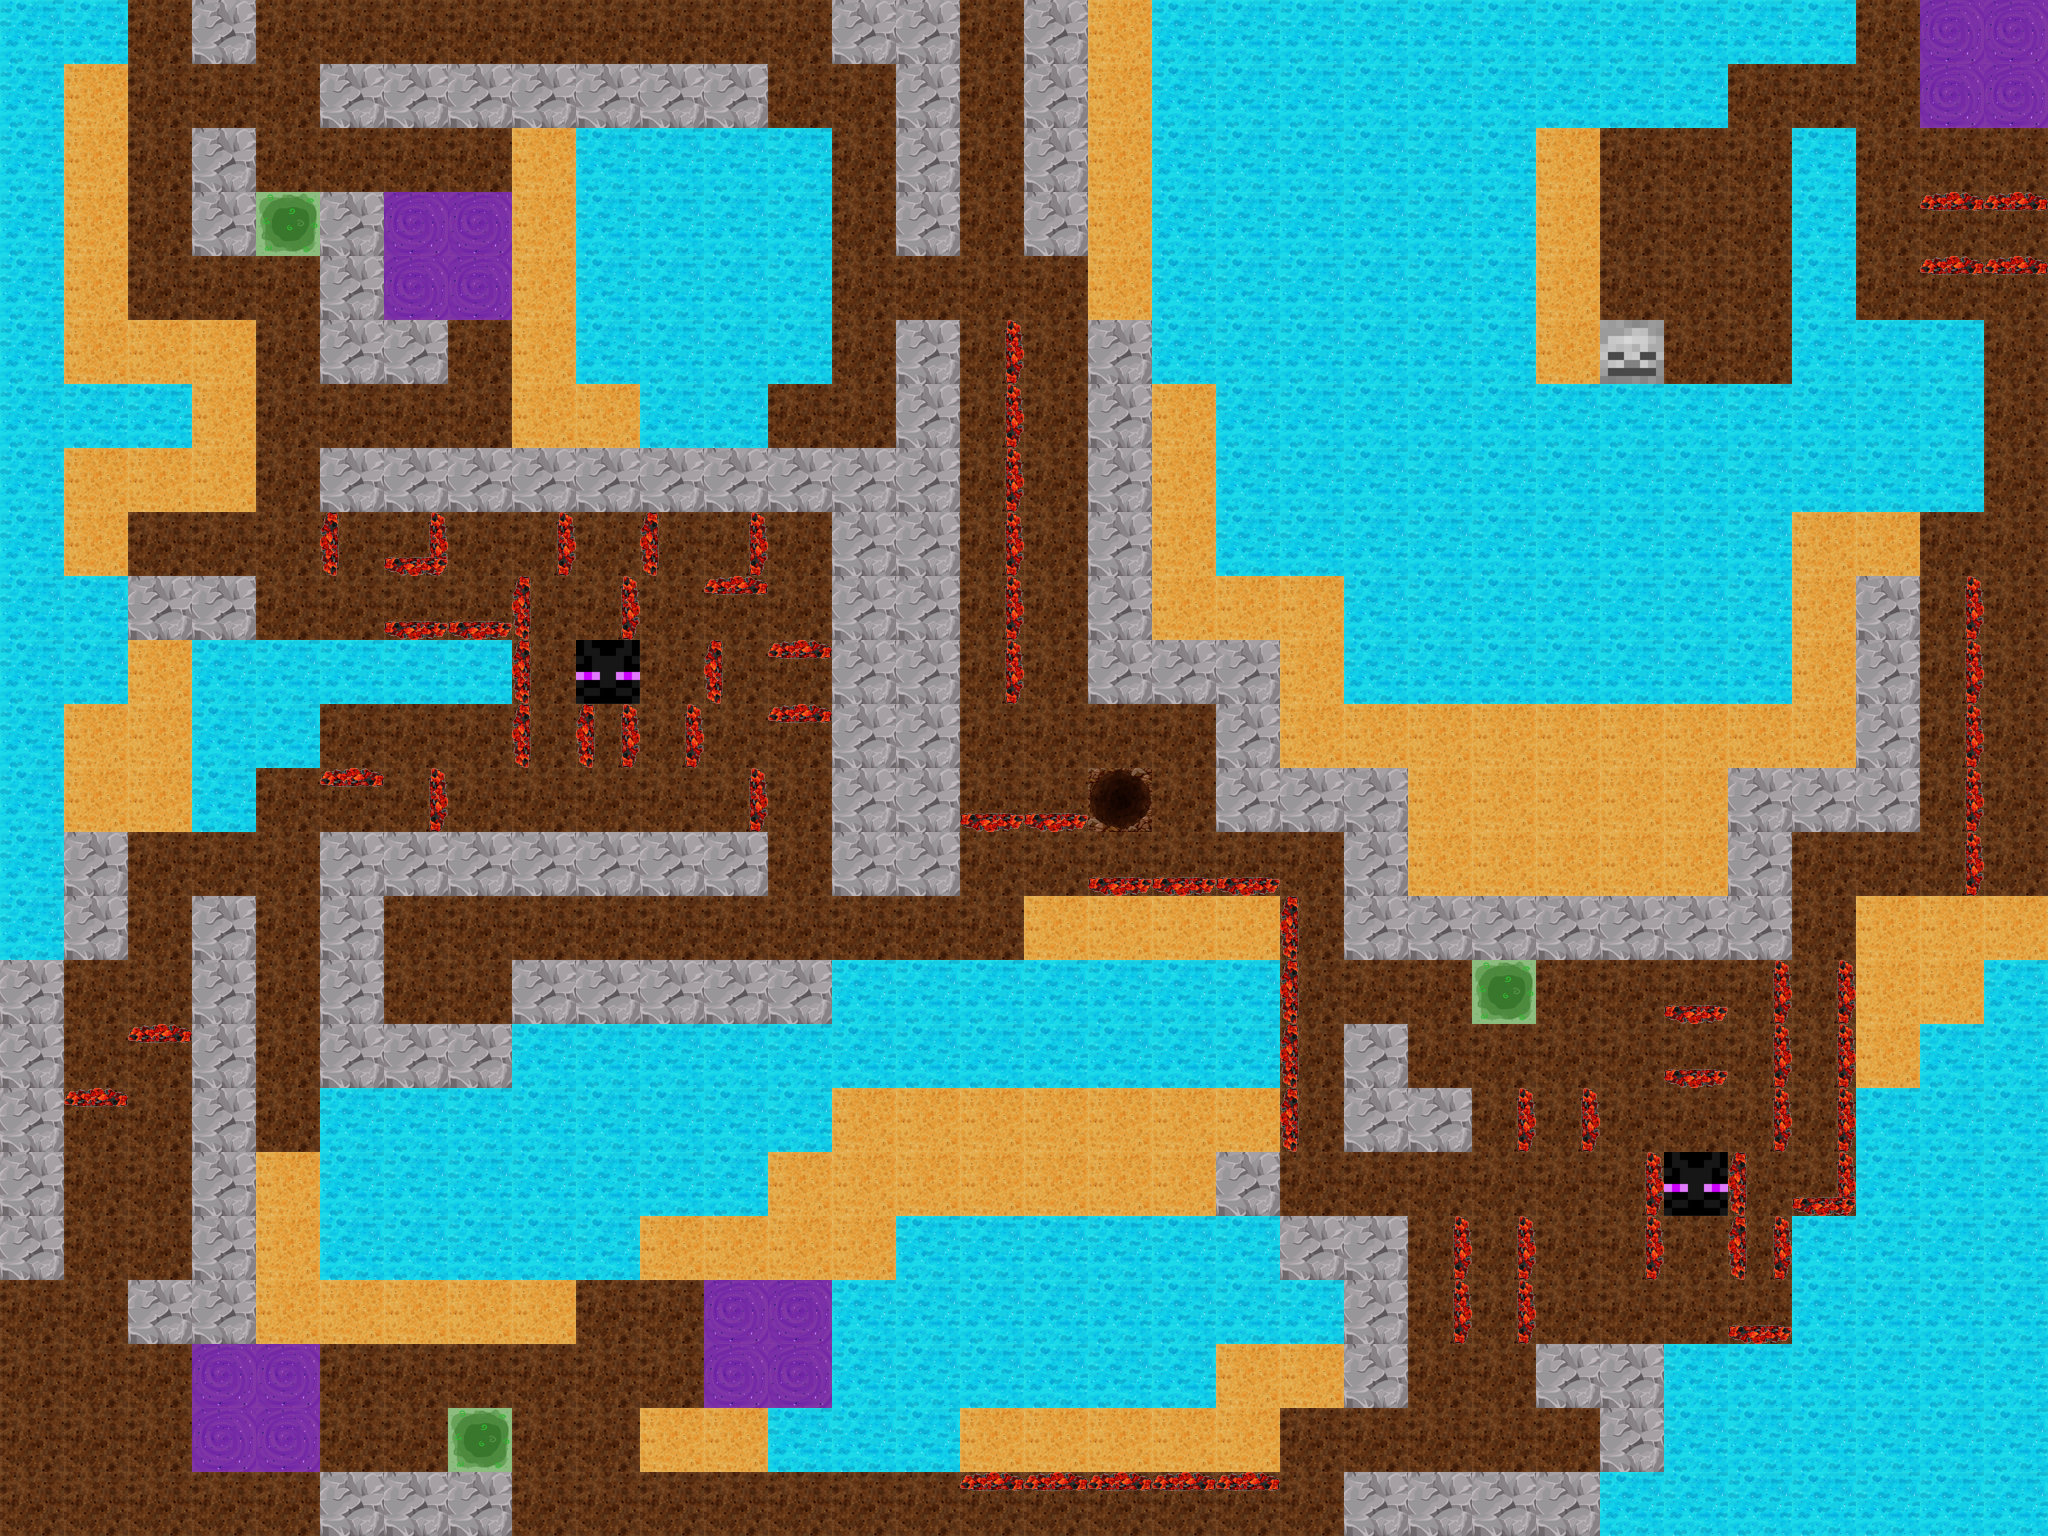
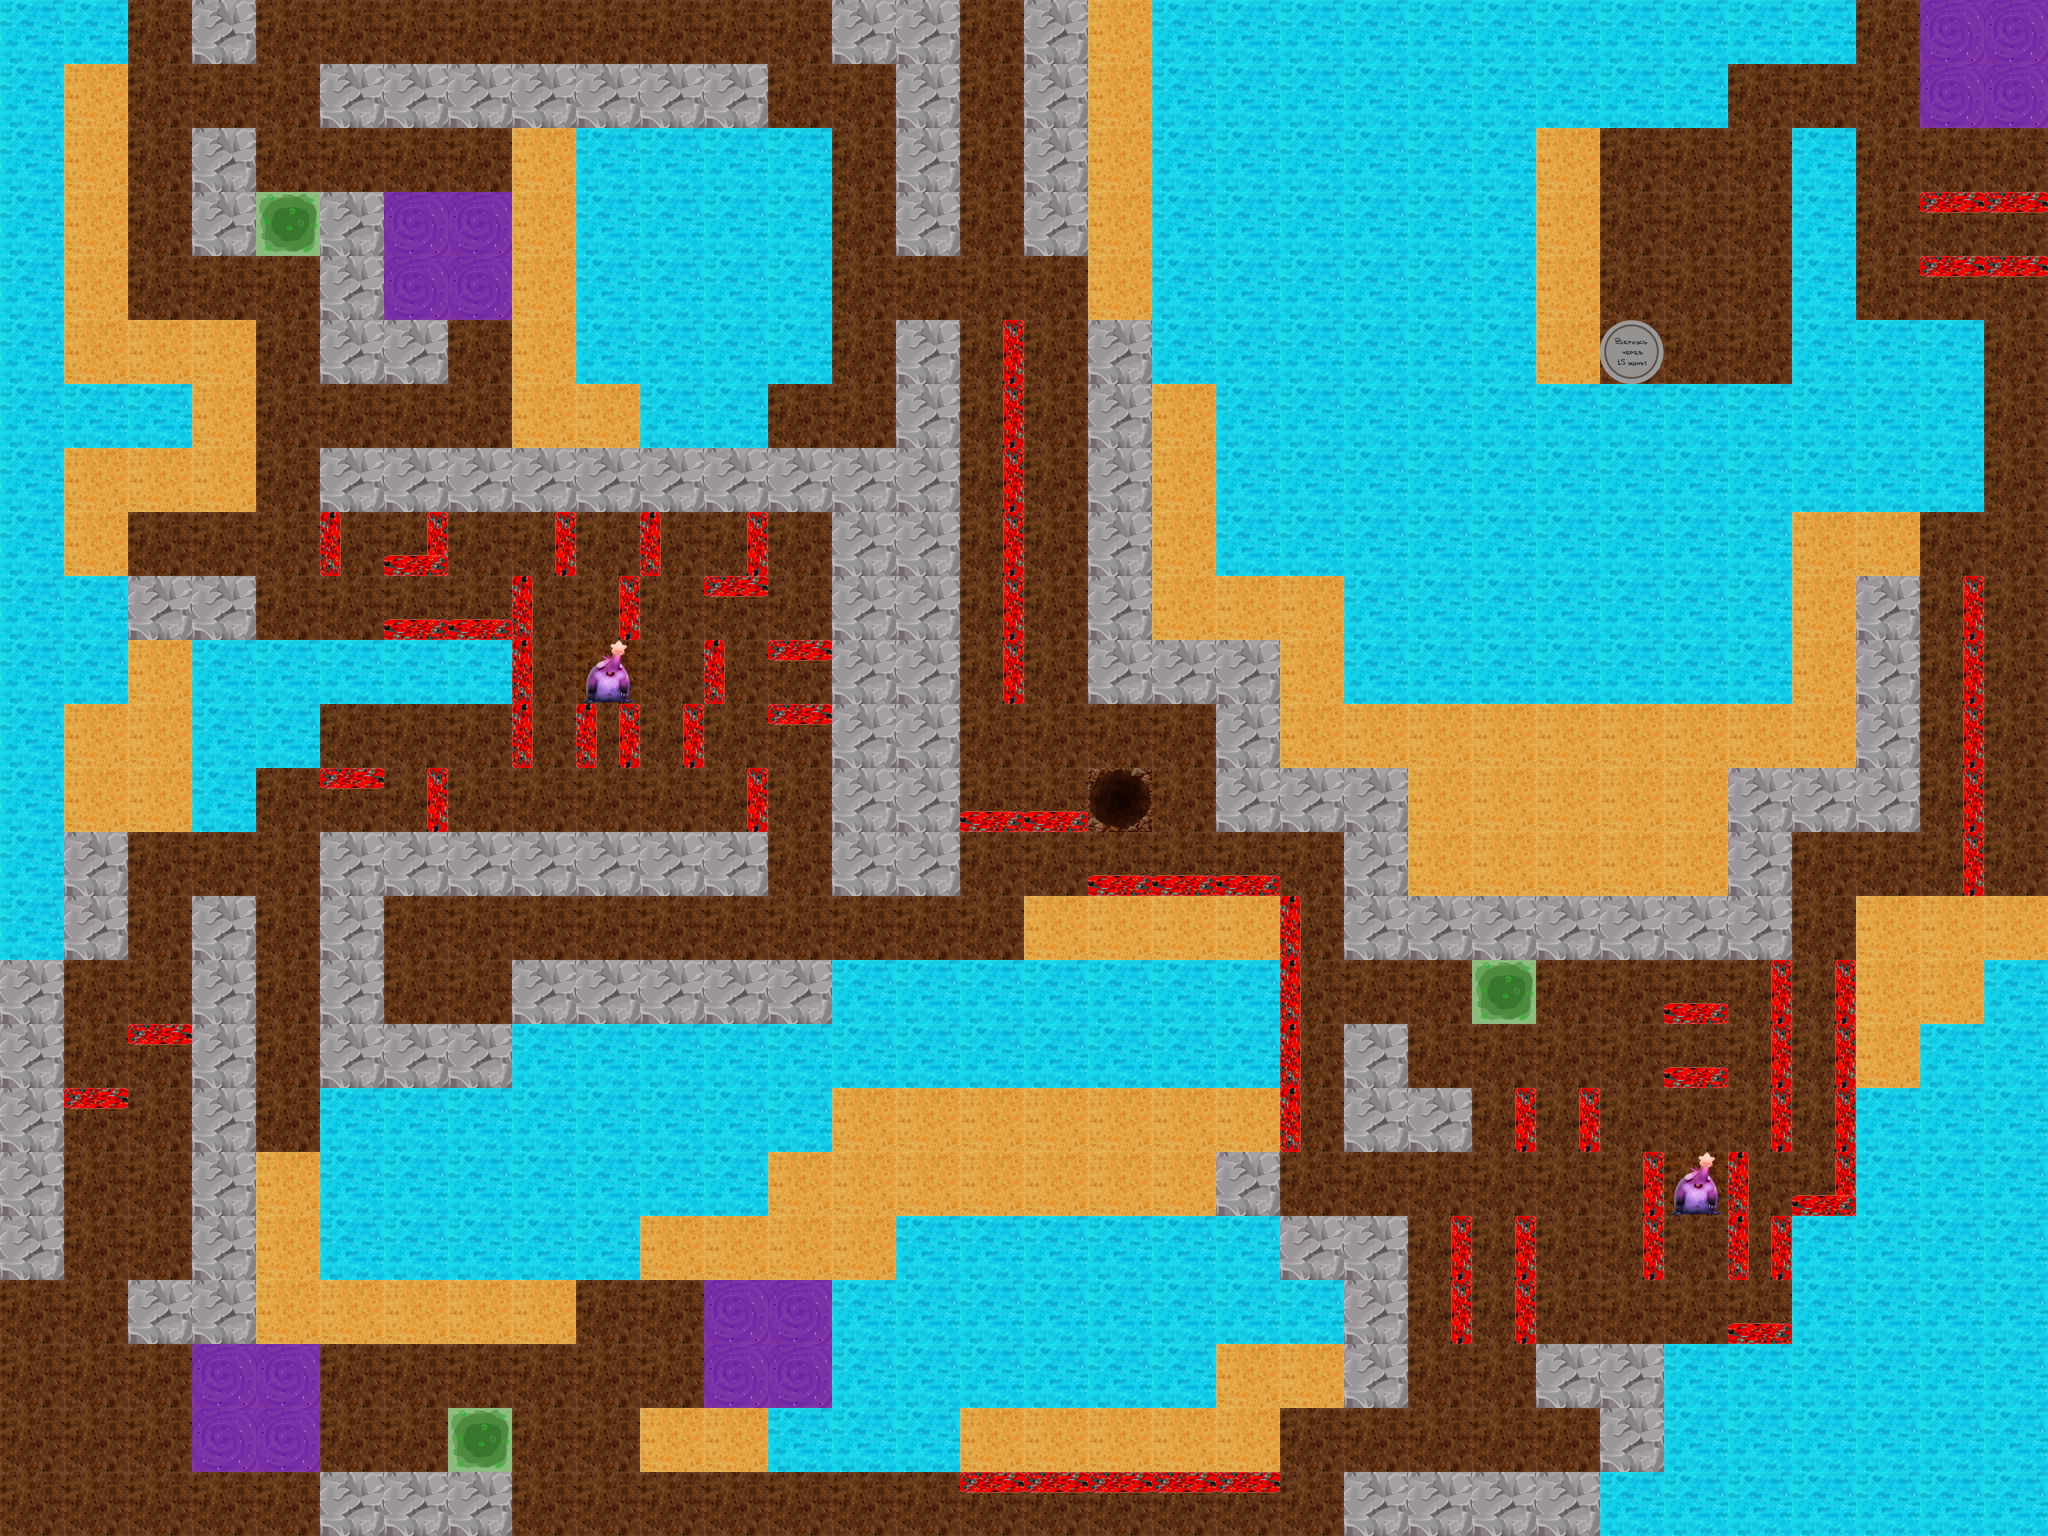
feat: Open adjacent revealed tiles when handling portal exit

diff --git a/gnome-field/src/components/BorderTile.vue b/gnome-field/src/components/BorderTile.vue
@@ -1,0 +1,75 @@
+<template>
+  <div @mouseover="mouseOver()" class="border-tile">
+    {{ value }}
+  </div>
+</template>
+
+<script>
+import { defineComponent } from "vue";
+import { useAppStore } from "@/stores/app";
+
+export default defineComponent({
+  name: "BorderTile",
+  props: {
+    index: Number,
+  },
+  setup() {
+    const store = useAppStore();
+    return { store };
+  },
+  computed: {
+    value() {
+      const i = Math.floor(this.index / (this.store.getWidth() + 2));
+      const j = this.index % (this.store.getWidth() + 2);
+
+      const alphabet = "ABCDEFGHIJKLMNOPQRSTUVWXYZ";
+
+      if (
+        (i == 0 && j == 0) ||
+        (i == 0 && j == this.store.getWidth() + 1) ||
+        (i == this.store.getHeight() + 1 && j == 0) ||
+        (i == this.store.getHeight() + 1 && j == this.store.getWidth() + 1)
+      )
+        return "";
+      if (i == 0 || i == this.store.getHeight() + 1) return j;
+      if (j == 0 || j == this.store.getWidth() + 1) return alphabet[i - 1];
+      return "?";
+    },
+    color() {
+      const i = Math.floor(this.index / (this.store.getWidth() + 2));
+      const j = this.index % (this.store.getWidth() + 2);
+      const mi = this.store.mouseI;
+      const mj = this.store.mouseJ;
+      if (
+        mi == 0 ||
+        mi == this.store.getHeight() + 1 ||
+        mj == 0 ||
+        mj == this.store.getWidth() + 1
+      )
+        return "transparent";
+      if (this.store.mouseI == i || this.store.mouseJ == j) return "#018a0a";
+      return "transparent";
+    },
+  },
+  methods: {
+    mouseOver() {
+      const i = Math.floor(this.index / (this.store.getWidth() + 2));
+      const j = this.index % (this.store.getWidth() + 2);
+      this.store.mouseI = i;
+      this.store.mouseJ = j;
+    },
+  },
+});
+</script>
+
+<style scoped>
+.border-tile {
+  background-color: v-bind("color");
+  border: solid 1px #018a0a;
+  aspect-ratio: 1;
+  width: 100%;
+  text-align: center;
+  align-content: center;
+  font-family: monospace;
+}
+</style>

diff --git a/gnome-field/src/components/SingleTile.vue b/gnome-field/src/components/SingleTile.vue
@@ -1,5 +1,5 @@
 <template>
-  <div @click="tap" class="tile"></div>
+  <div @click="tap" @mouseover="mouseOver" class="tile"></div>
 </template>
 
 <script>
@@ -18,19 +18,20 @@ export default defineComponent({
   },
   computed: {
     opacity() {
-      const visibility = this.store.getTile(this.i, this.j).visibility;
-      switch (visibility) {
-        case TileVisibility.Closed:
-          return 1;
-        case TileVisibility.Opened:
-          return 0;
-        case TileVisibility.Revealed:
-          return 0.5;
-        case TileVisibility.Scanned:
-          return 0.3;
-        default:
-          return 0;
-      }
+      return 0.2;
+      // const visibility = this.store.getTile(this.i, this.j).visibility;
+      // switch (visibility) {
+      //   case TileVisibility.Closed:
+      //     return 1;
+      //   case TileVisibility.Opened:
+      //     return 0;
+      //   case TileVisibility.Revealed:
+      //     return 0.5;
+      //   case TileVisibility.Scanned:
+      //     return 0.3;
+      //   default:
+      //     return 0;
+      // }
     },
     color() {
       const visibility = this.store.getTile(this.i, this.j).visibility;
@@ -48,6 +49,10 @@ export default defineComponent({
     tap() {
       this.store.tapTile(this.i, this.j);
     },
+    mouseOver() {
+      this.store.mouseI = this.i + 1;
+      this.store.mouseJ = this.j + 1;
+    },
   },
 });
 </script>
@@ -59,5 +64,6 @@ export default defineComponent({
   aspect-ratio: 1;
   width: 100%;
   opacity: v-bind("opacity");
+  cursor: url("@/assets/cross.cur"), auto;
 }
 </style>

diff --git a/gnome-field/src/pages/index.vue b/gnome-field/src/pages/index.vue
@@ -4,13 +4,36 @@
       <div
         style="
           position: relative;
-          max-height: 100vh;
-          aspect-ratio: 4/3;
-          width: max(calc(100% - 22rem), 50%);
+          width: max(calc(100% - 23.5rem), 50%);
           margin: auto;
         "
+        :style="{
+          aspectRatio: (store.getWidth() + 2) / (store.getHeight() + 2),
+          display: `grid`,
+          gridTemplateColumns: `repeat(${store.getWidth() + 2}, calc(100% / ${
+            store.getWidth() + 2
+          }))`,
+          gridTemplateRows: `repeat(${store.getHeight() + 2}, calc(100% / ${
+            store.getHeight() + 2
+          }))`,
+        }"
       >
-        <GameField />
+        <div
+          v-for="i in (store.getWidth() + 2) * (store.getHeight() + 2)"
+          :key="i"
+        >
+          <BorderTile :index="i - 1" />
+        </div>
+        <div
+          style="position: absolute"
+          :style="{
+            width: `calc(100% / ${store.getWidth() + 2} * ${store.getWidth()})`,
+            top: `calc(100% / ${store.getHeight() + 2})`,
+            left: `calc(100% / ${store.getWidth() + 2})`,
+          }"
+        >
+          <GameField />
+        </div>
       </div>
       <div style="width: 22rem; padding: 1em; height: 100%">
         <StatsColumn />

diff --git a/gnome-field/src/components/TileGrid.vue b/gnome-field/src/components/TileGrid.vue
@@ -8,16 +8,22 @@
 
 <script>
 import { defineComponent } from "vue";
+import { useAppStore } from "@/stores/app";
 
 export default defineComponent({
   name: "TileGrid",
   setup() {
-    return {};
+    const store = useAppStore();
+    return { store };
   },
-  data: () => ({
-    height: 24,
-    width: 32,
-  }),
+  computed: {
+    width() {
+      return this.store.getWidth();
+    },
+    height() {
+      return this.store.getHeight();
+    },
+  },
 });
 </script>
 
@@ -25,8 +31,7 @@ export default defineComponent({
 .tile-grid {
   width: 100%;
   display: grid;
-  aspect-ratio: 4/3;
-  grid-template-columns: repeat(32, calc(100% / v-bind("width")));
-  grid-template-rows: repeat(24, calc(100% / v-bind("height")));
+  grid-template-columns: repeat(v-bind("width"), calc(100% / v-bind("width")));
+  grid-template-rows: repeat(v-bind("height"), calc(100% / v-bind("height")));
 }
 </style>

diff --git a/gnome-field/src/components/GameField.vue b/gnome-field/src/components/GameField.vue
@@ -1,12 +1,14 @@
 <template>
-  <img src="@/assets/map.png" style="aspect-ratio: 4/3; width: 100%" />
-  <ExplosionTile
-    v-for="bomb in store.getBombs()"
-    :key="bomb"
-    :i="bomb.i"
-    :j="bomb.j"
-  />
-  <TileGrid style="z-index: 10; position: absolute; top: 0; left: 0" />
+  <div>
+    <img src="@/assets/map.png" style="width: 100%" />
+    <ExplosionTile
+      v-for="bomb in store.getBombs()"
+      :key="bomb"
+      :i="bomb.i"
+      :j="bomb.j"
+    />
+    <TileGrid style="z-index: 10; position: absolute; top: 0; left: 0" />
+  </div>
 </template>
 
 <script>

diff --git a/gnome-field/src/stores/app.js b/gnome-field/src/stores/app.js
@@ -491,6 +491,8 @@ export const useAppStore = defineStore("app", {
     creditsSpent: 0,
     journal: [],
     drillInitialized: false,
+    mouseI: -1,
+    mouseJ: -1,
   }),
   actions: {
     async loadMap() {
@@ -531,6 +533,12 @@ export const useAppStore = defineStore("app", {
           }
         }, 500);
       }
+    },
+    getWidth() {
+      return this.field.width;
+    },
+    getHeight() {
+      return this.field.height;
     },
     getTile(i, j) {
       return this.field.get(i, j);

diff --git a/gnome-field/src/components/ExplosionTile.vue b/gnome-field/src/components/ExplosionTile.vue
@@ -2,10 +2,10 @@
   <img
     src="@/assets/explosion.png"
     :style="{
-      top: `calc((${i} - 1) / 24 * 99%)`,
-      left: `calc((${j} - 1) / 32 * 100%)`,
+      top: `calc((${i} - 1) / ${store.getHeight()} * 99%)`,
+      left: `calc((${j} - 1) / ${store.getWidth()} * 100%)`,
       opacity: `${opacity}`,
-      height: `calc(100% / 8)`,
+      height: `calc(100% / ${store.getHeight() / 3})`,
     }"
     style="aspect-ratio: 1; position: absolute; z-index: 5"
   />
